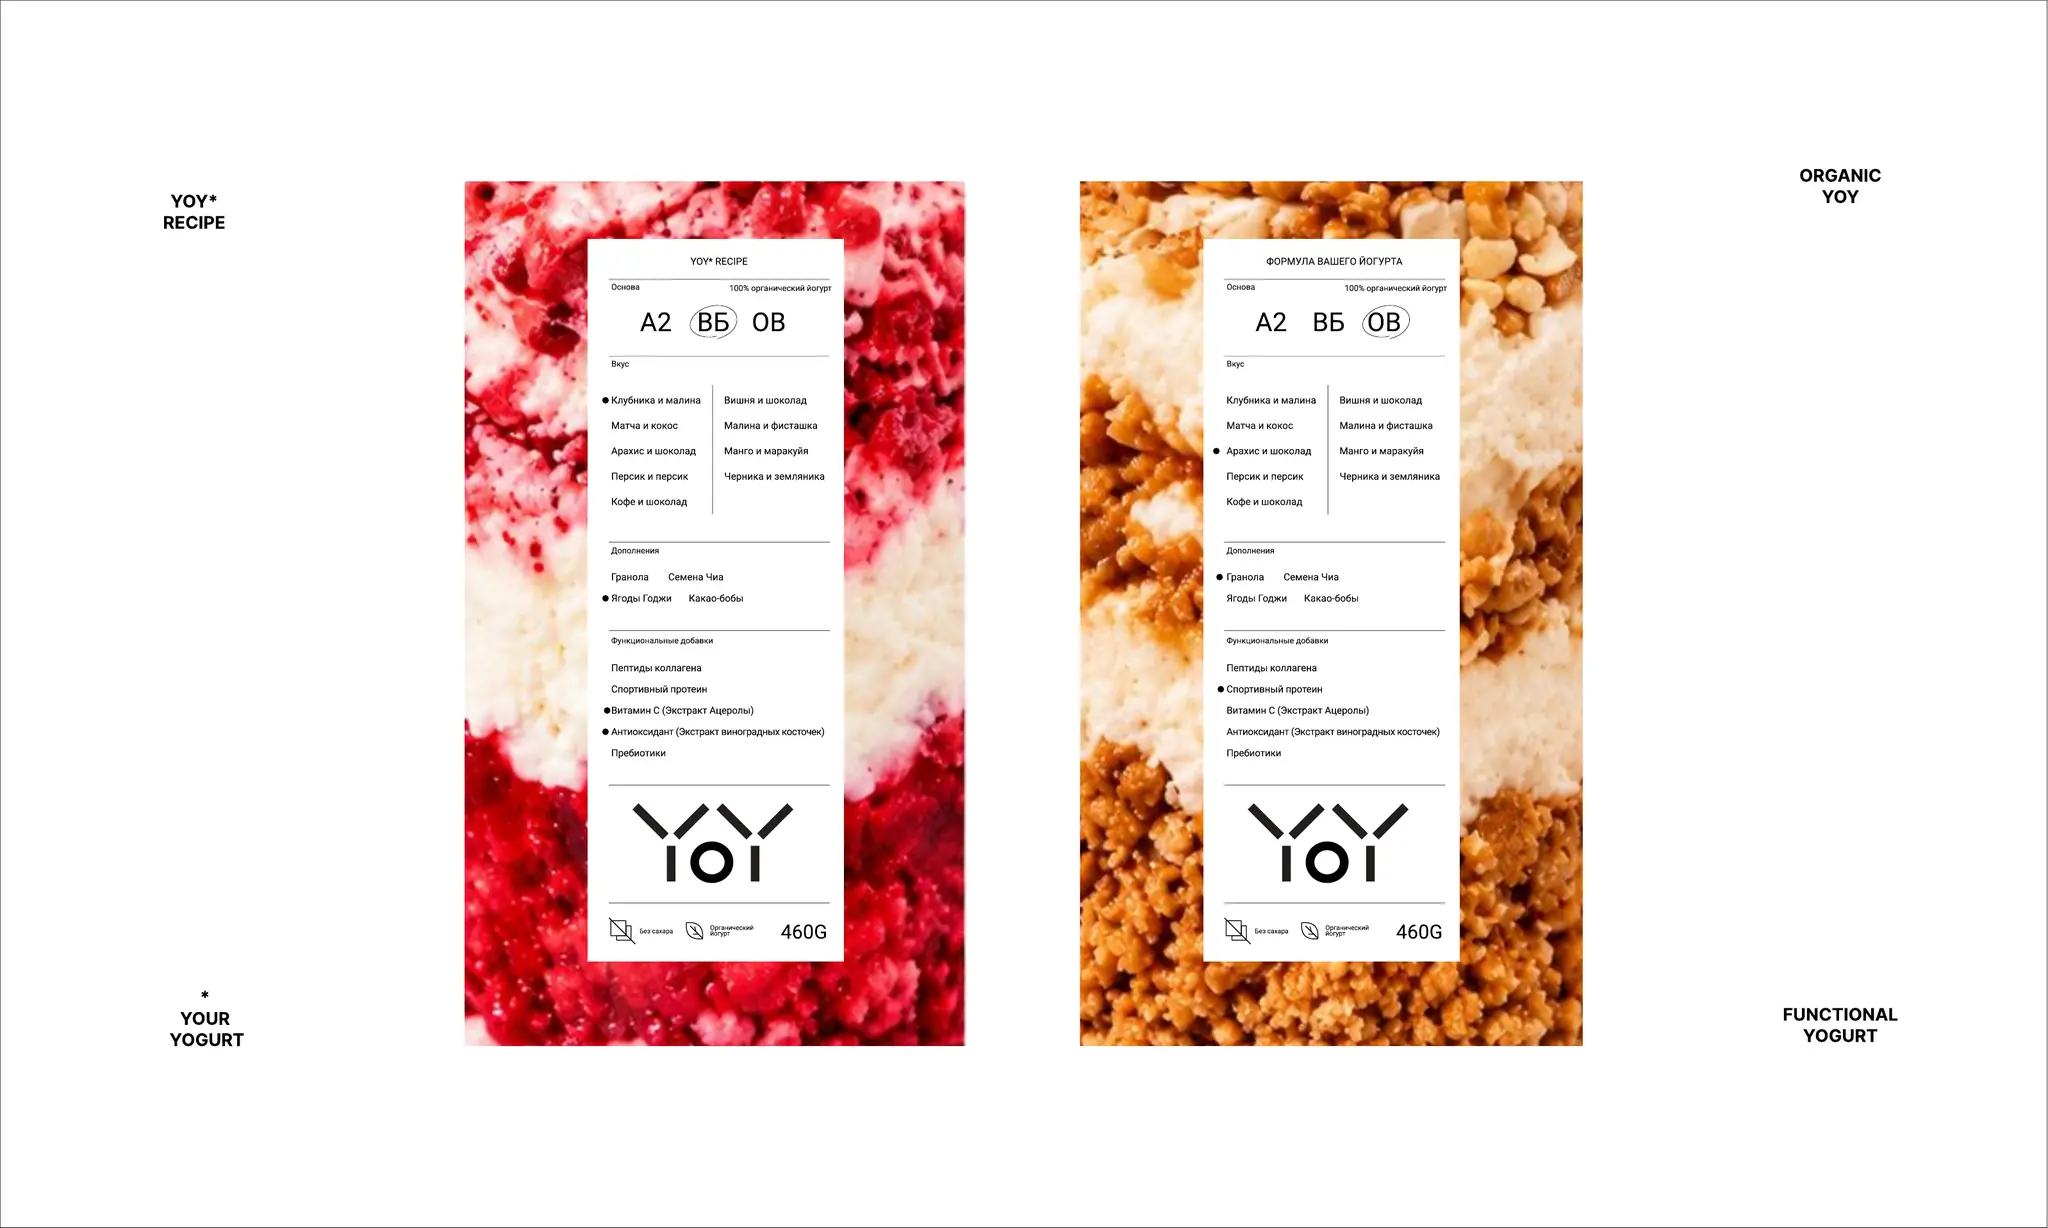
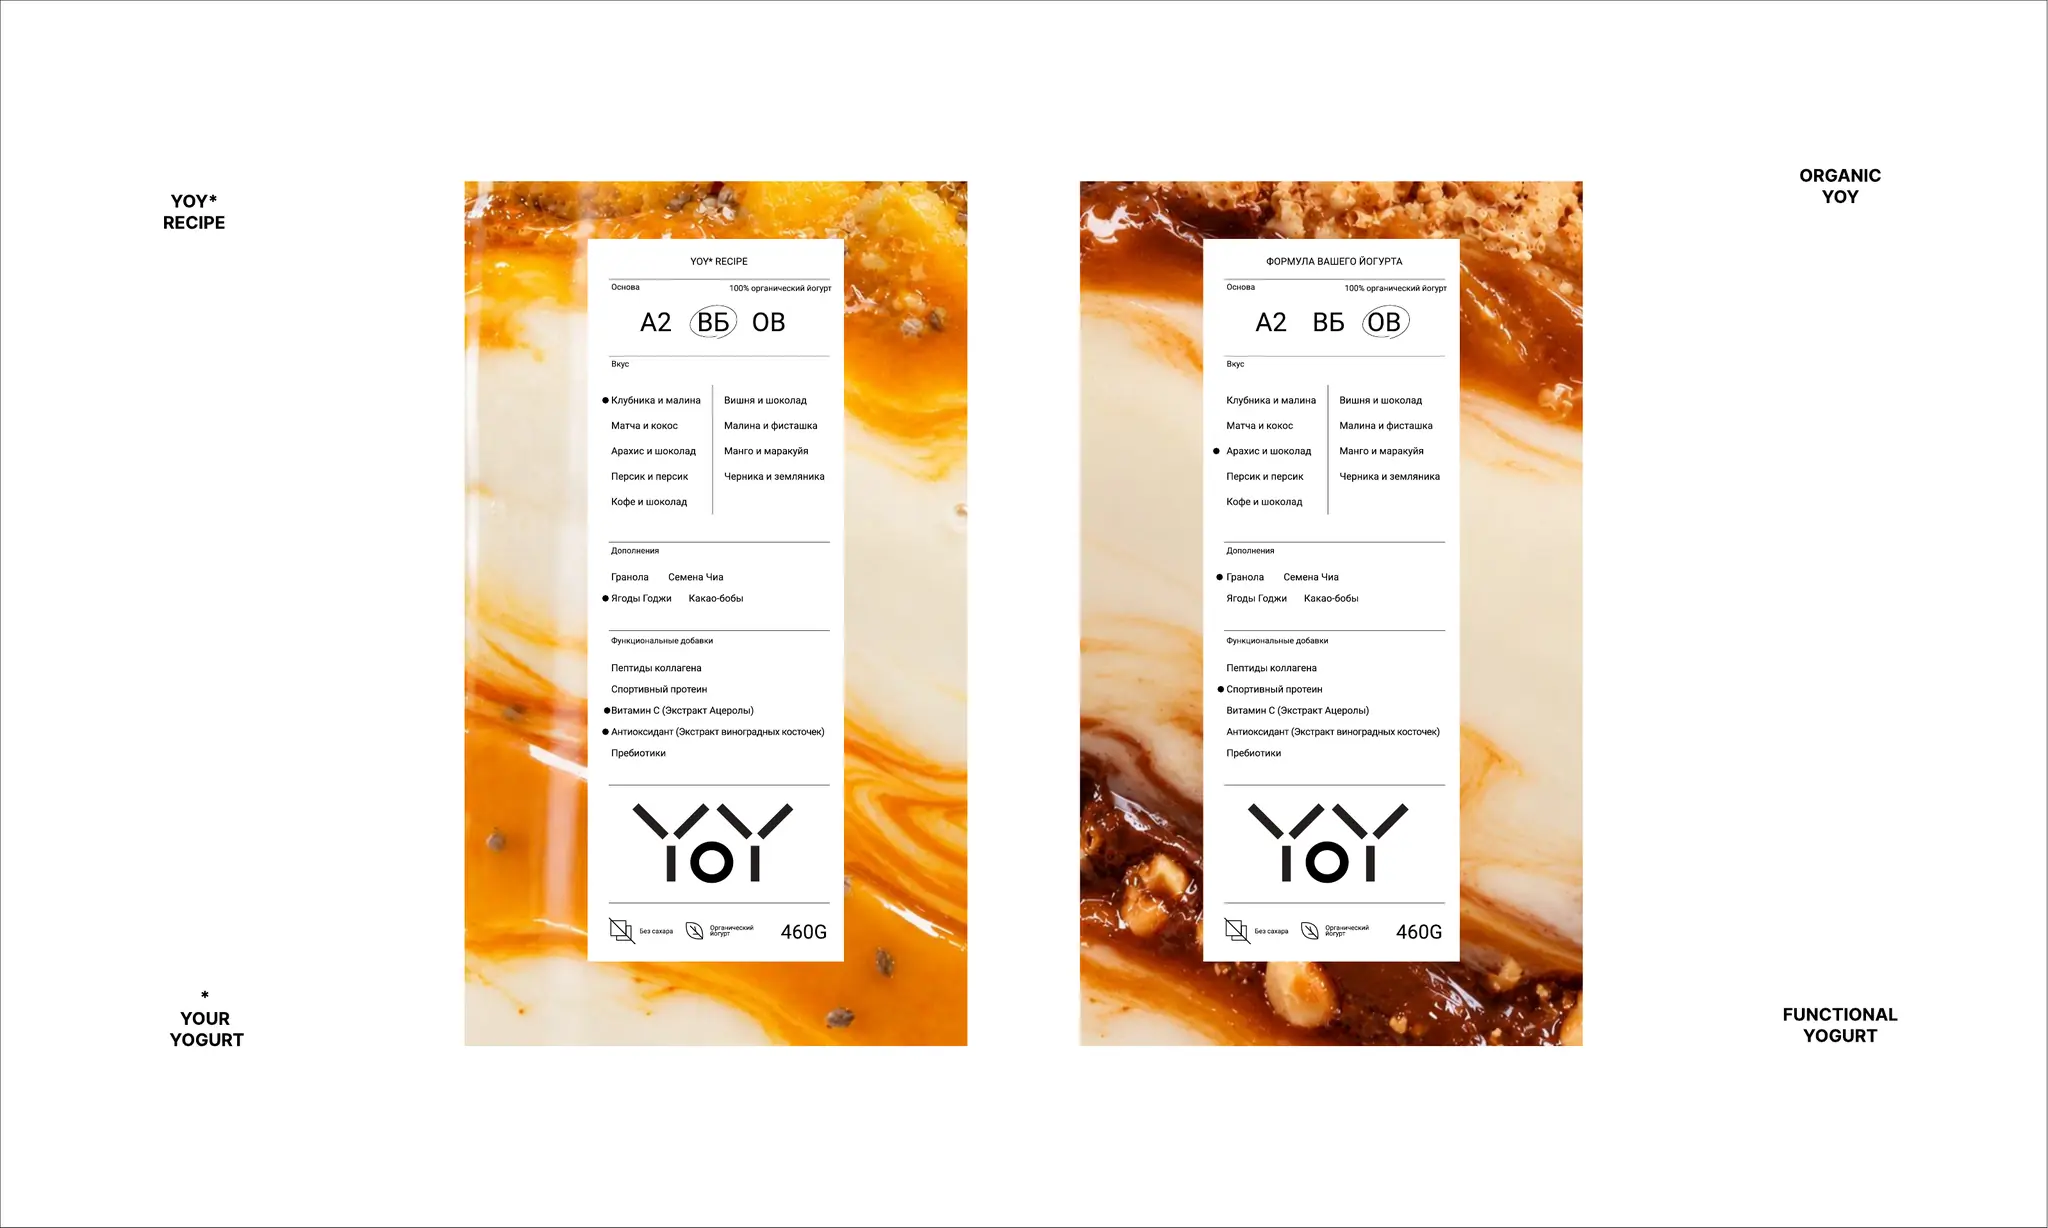
Слайд 17: этикетки-рецепты с новыми вкусами
Картинки 17-го слайда заменены на Frame 3, версия картинок
поднята до ?v=5.

Claude-Session: https://claude.ai/code/session_01Lp3Q6ktycZ9twvzzsKVyRs

Changed region(s): [[0.2188, 0.1238, 0.7812, 0.8664]]

diff --git a/index.html b/index.html
@@ -251,7 +251,7 @@ body.zoomed #track { overflow-x: hidden; touch-action: none; }
   const N = AR.length;
   const id = i => String(i + 1).padStart(2, '0');
   // Bump V when slide images change so cached copies are not reused.
-  const V = 4;
+  const V = 5;
   const src = (i, size) => `slides/${id(i)}-${size}.webp?v=${V}`;
 
   const $ = s => document.getElementById(s);
